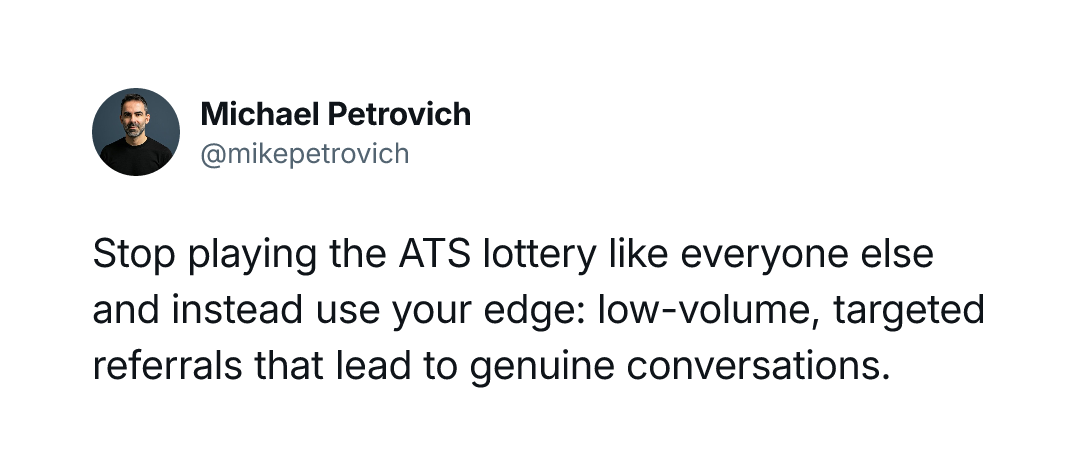
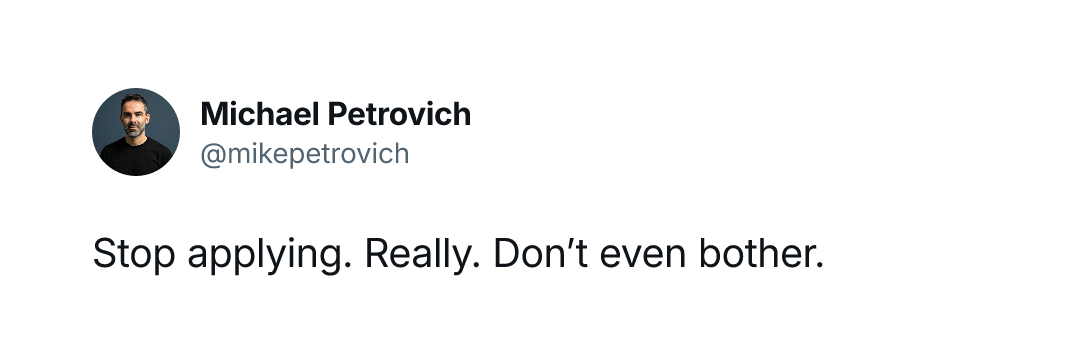
Sharpen subtitle and tweet mockup into a direct hook.

Changed region(s): [[0.0611, 0.6044, 0.9167, 0.8159], [0.0611, 0.1813, 0.8861, 0.5742]]

diff --git a/posts/published/2026-09-21-applying-to-jobs-is-a-waste-of-time-do-this-instead.md b/posts/published/2026-09-21-applying-to-jobs-is-a-waste-of-time-do-this-instead.md
@@ -1,6 +1,6 @@
 ---
 title: Applying to jobs is a waste of time. Do this instead.
-subtitle: Stop playing the ATS lottery like everyone else and instead use your edge: low-volume, targeted referrals that lead to genuine conversations.
+subtitle: Stop applying. Really. Don’t even bother.
 date: 2026-09-21
 topics: [career]
 ---
